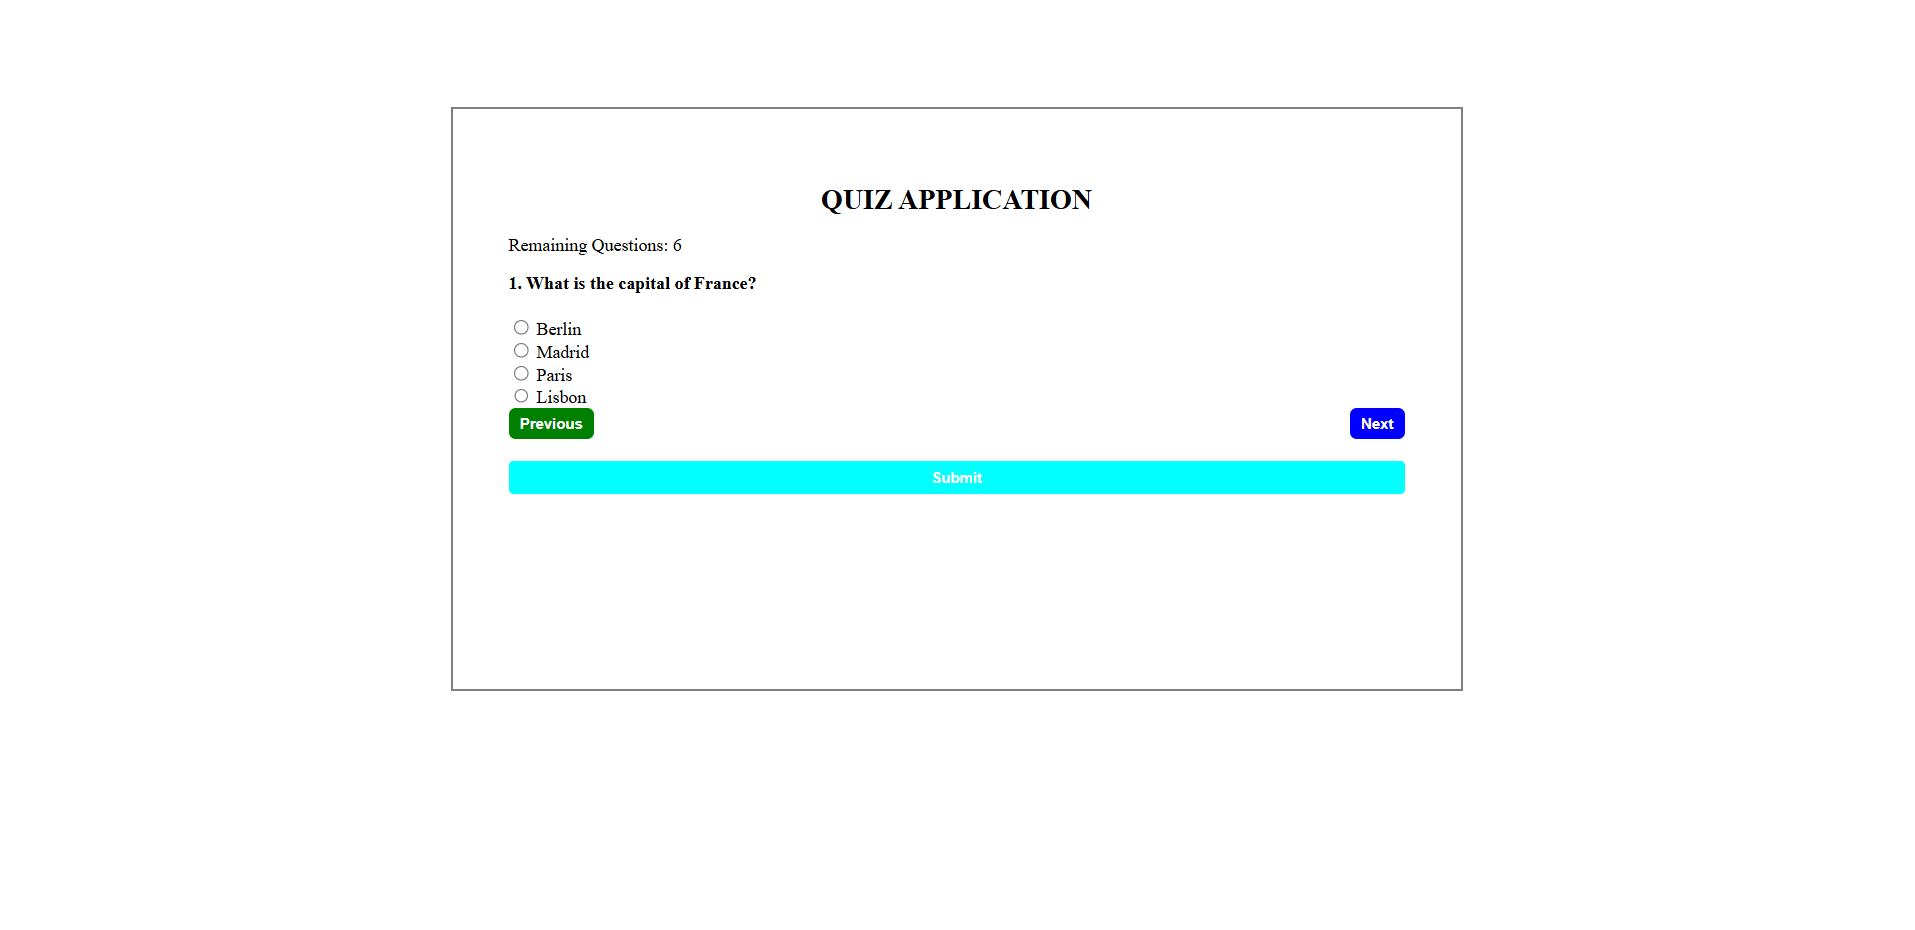
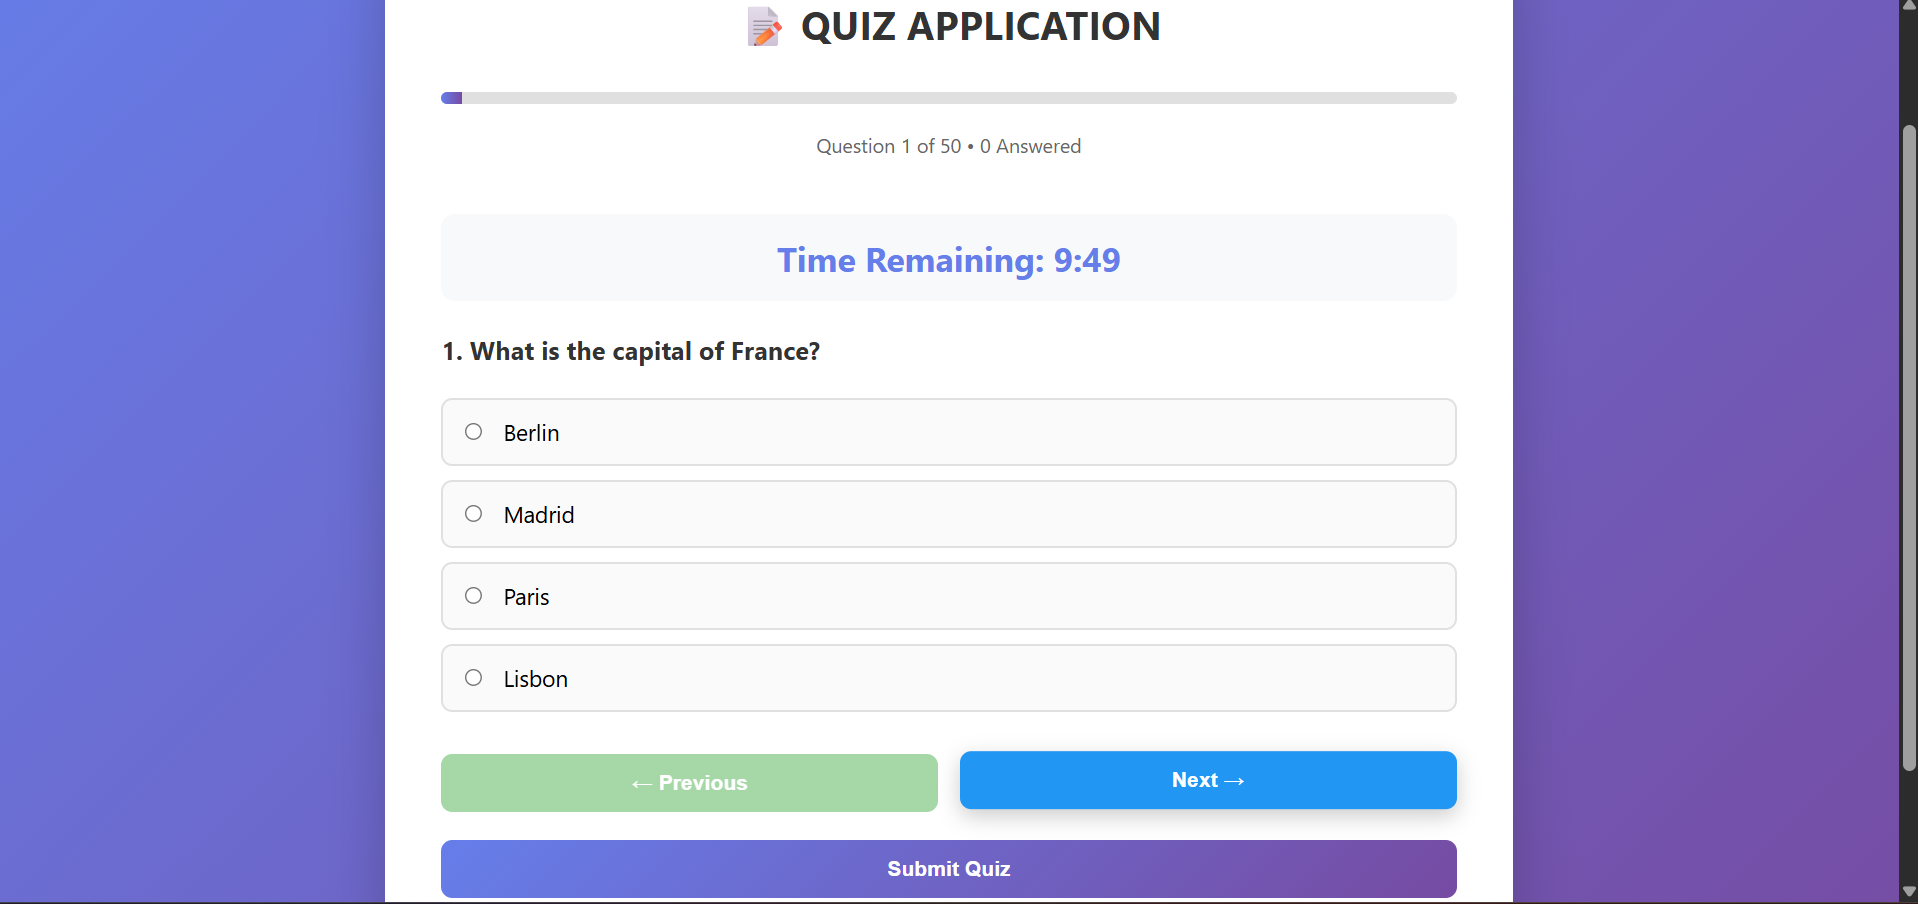
project updated

diff --git a/src/constants/index.js b/src/constants/index.js
@@ -160,16 +160,16 @@ export const projects = [
     source_code_link: "",
   },
   {
-    name: "Quiz App",
+    name: "Quiz Application",
     description:
-      "A web application that allows users to take quizzes and see their results.",
+      "Interactive quiz application with 50 questions and 10-minute timer. Built with vanilla HTML, CSS & JavaScript. Features progress tracking, auto-submit, and detailed answer review.",
     tags: [
       { name: "HTML", color: "blue-text-gradient" },
       { name: "CSS", color: "green-text-gradient" },
       { name: "JAVASCRIPT", color: "pink-text-gradient" },
     ],
     image: quizapp,
-    source_code_link: "",
+    source_code_link: "https://github.com/iPeerol-Dev/quiz-application.git",
   },
   {
     name: "kuda Bank",
